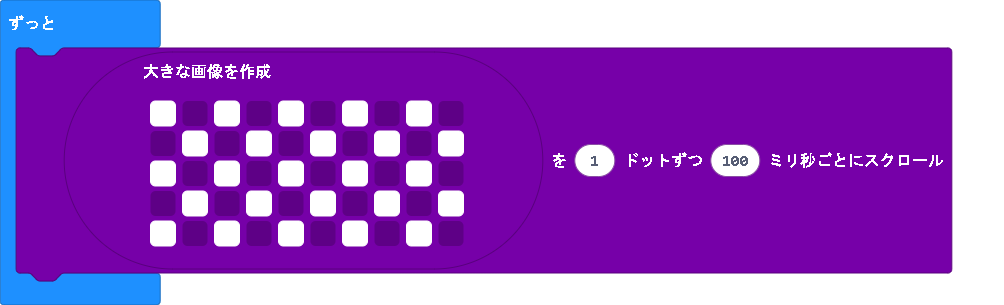
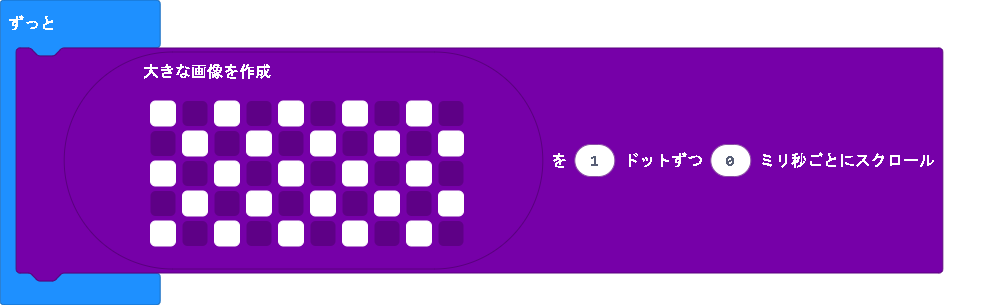
更新 main.blocks, main.ts

diff --git a/main.ts b/main.ts
@@ -5,5 +5,5 @@ basic.forever(function () {
         # . # . # . # . # .
         . # . # . # . # . #
         # . # . # . # . # .
-        `).scrollImage(1, 100)
+        `).scrollImage(1, 0)
 })
